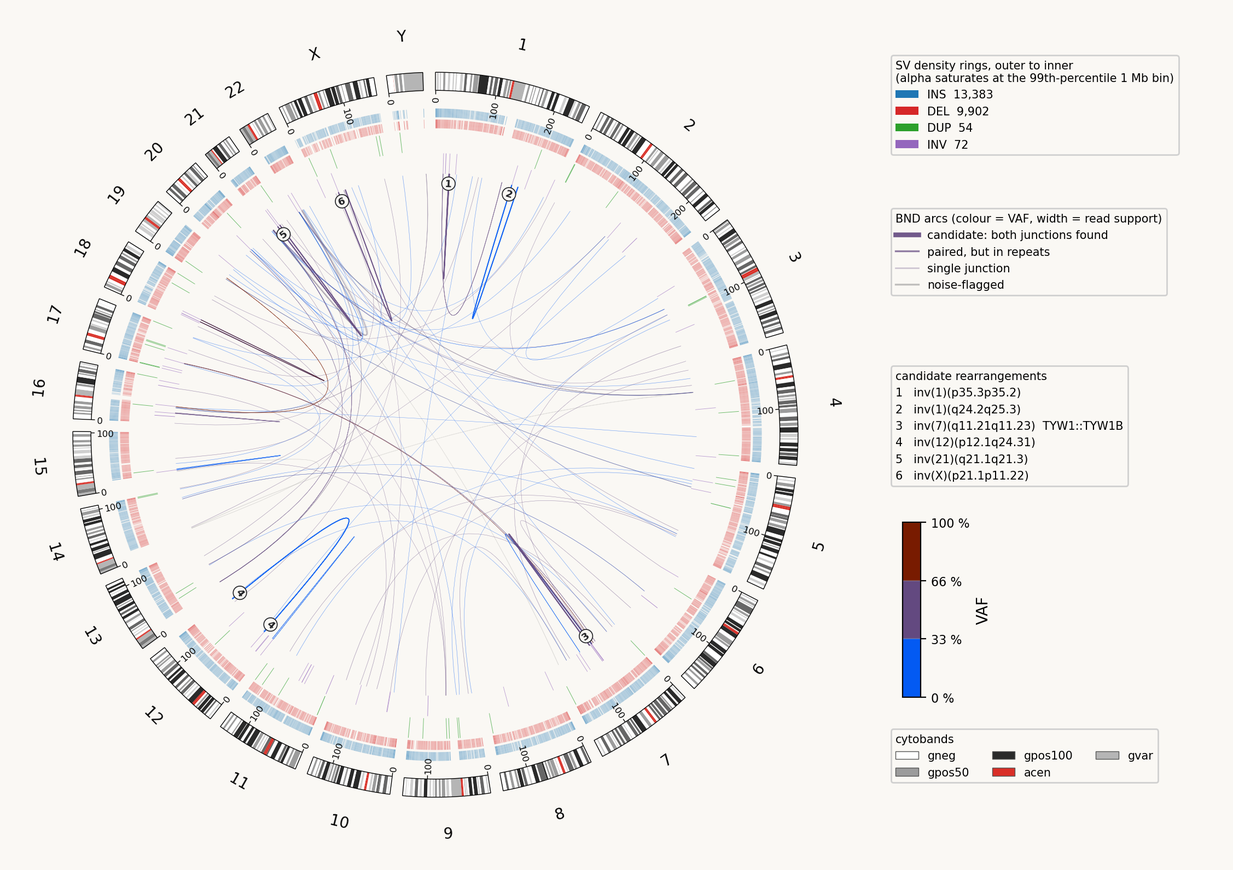
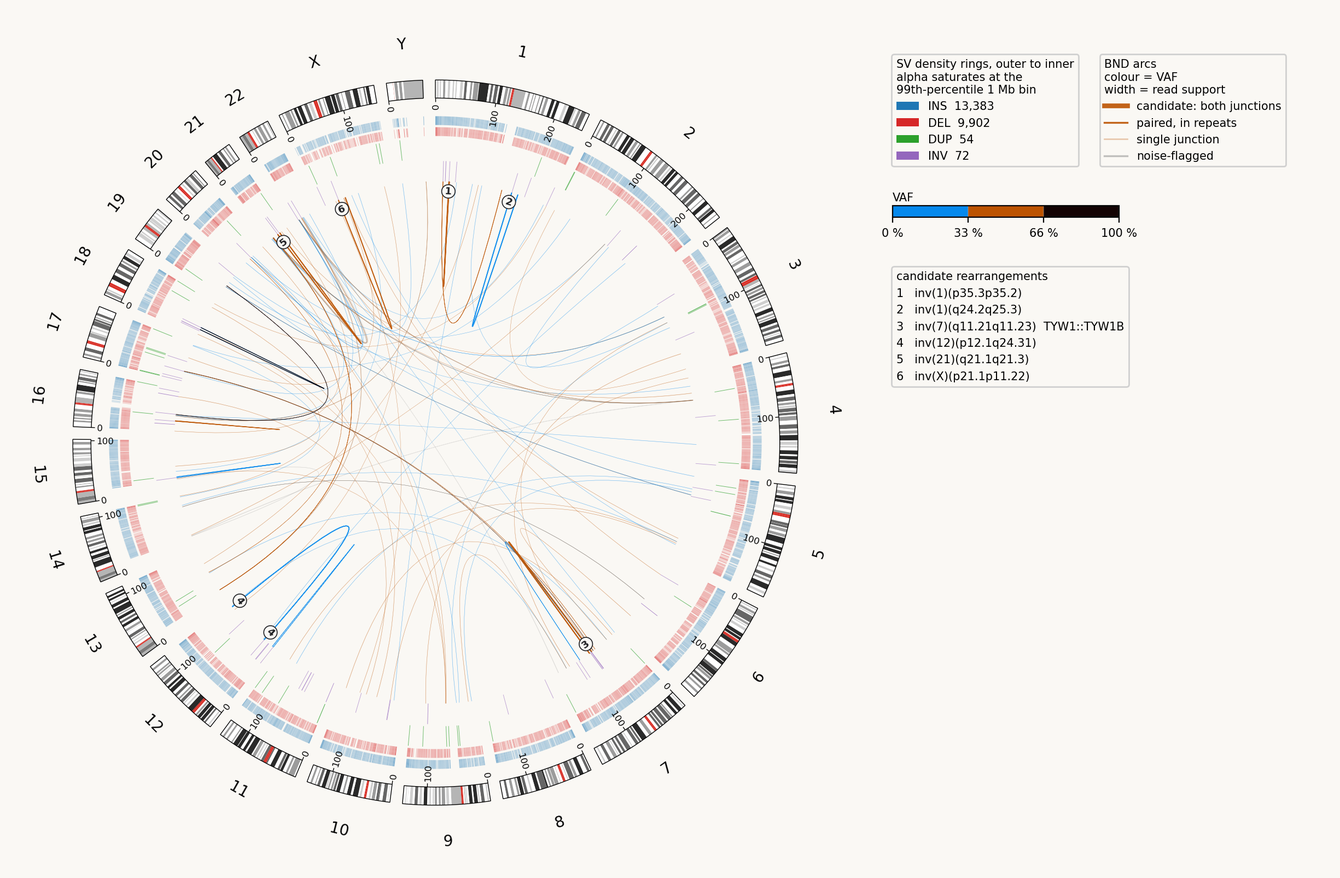
circos: blue / orange / near-black VAF classes, re-laid-out key column
VAF classes are now #0689ED / #BC5301 / #130303 (blue, burnt orange,
near-black). The previous blue / purple / brown met every colour-vision
constraint on paper, but its classes sat at L 44 / 36 / 26, so on a thin
arc the two upper classes read as one dark line. The new ones span
L 56 / 48 / 2, and the worst-case class separation across normal vision,
protanopia, deuteranopia and tritanopia rises from dE 36 to 62, judged
as drawn. Screened against Okabe-Ito, Tol and IBM palettes and a CIE LCh
search; under the old 0.70 alpha for pairs in repeats, the previous
palette was effectively the only one meeting all the constraints.

Pairs in repeats therefore draw at 0.90, like candidates: the lighter
blue keeps 3:1 contrast against the page only at that opacity, and a
mask-demoted real fusion lands in this tier. Candidates are told apart by
width and by being drawn on top. The colour tests check the guarantees
at both tiers' alpha.

Key column: the ring and arc keys sit side by side at the top right, a
small horizontal VAF bar below them, and the candidate list below that
with room for 25 names. Each key is placed from the measured extent of
the one above, so long names cannot overlap (a test checks the layout).
The cytoband key is gone. Rendered with and without --plotvaf and
--filter all; nothing clips. docs/example_sv_circos.png regenerated from
MH001.

diff --git a/molamola/__init__.py b/molamola/__init__.py
@@ -146,29 +146,34 @@ SV_COV_FILTER_TYPES: tuple[str, ...] = ("DEL", "DUP")
 #: low-blast sample as mosaic.
 VAF_CLASS_EDGES: tuple[float, ...] = (0.0, 0.33, 0.66, 1.0)
 
-#: One colour per class, low to high. Chosen under simulated
-#: colour-vision deficiency (Machado et al. 2009) rather than by eye,
-#: and evaluated on the colours **as drawn** -- arcs render at alpha
-#: 0.70 over :data:`PAPER_BG`, which lifts every colour toward the page
-#: and costs roughly a third of the nominal contrast. Judging the raw
-#: hex values instead is how a palette ends up looking fine in a swatch
-#: and washed out on the plot.
+#: One colour per class, low to high: blue, burnt orange, near-black.
+#: Chosen under simulated colour-vision deficiency (Machado et al. 2009)
+#: rather than by eye, and evaluated on the colours **as drawn** -- arcs
+#: that must be read (candidates and pairs in repeats) render at alpha
+#: 0.90 over :data:`PAPER_BG`, which lifts every colour toward the page.
+#: Judging the raw hex values instead is how a palette ends up looking
+#: fine in a swatch and washed out on the plot.
 #:
 #: Constraints, all binding on the blended colour:
 #:
-#: 1. every class clears 3:1 contrast against the page;
-#: 2. classes stay apart under normal, protan, deutan and tritan vision
-#:    (worst case dE 37.2, up from 11.3). The previous palette put het
-#:    and hom at nearly the same lightness, so they differed almost only
-#:    in hue and merged under tritanopia;
-#: 3. no class lands on :data:`NOISE_COLOR` (worst case dE 35.0).
+#: 1. every class clears 3:1 contrast against the page (the blue, at
+#:    3.03:1, is the binding one);
+#: 2. classes stay apart under normal, protan, deutan and tritan vision:
+#:    worst case dE 61.6 (70.6 / 61.6 / 67.6 / 63.3), up from 36.3;
+#: 3. no class lands on :data:`NOISE_COLOR` (worst case dE 45.8).
 #:
-#: Lightness also decreases monotonically with VAF, so the ordering
-#: survives even a total loss of hue discrimination.
+#: Lightness decreases with VAF (L 56 / 48 / 2), so the ordering survives
+#: a total loss of hue discrimination and the fullest events are the
+#: darkest. Replaced 2026-09-26: the previous blue / purple / brown met
+#: the same constraints but sat at L 44 / 36 / 26, so on a thin arc its
+#: two upper classes read as the same dark line. Blue against orange is
+#: the axis Okabe-Ito and other colour-blind-safe palettes are built on.
+#: Meeting 3:1 with a lighter first class is what needs the 0.90 alpha;
+#: at 0.70 the blue drops to 2.4:1.
 VAF_CLASS_COLORS: tuple[str, ...] = (
-    "#035AF3",  # 0 - 33 %
-    "#634980",  # 33 - 66 %
-    "#781B00",  # 66 - 100 %
+    "#0689ED",  # 0 - 33 %
+    "#BC5301",  # 33 - 66 %
+    "#130303",  # 66 - 100 %
 )
 
 #: Class names, in the same order as :data:`VAF_CLASS_COLORS`: the VAF
@@ -293,8 +298,9 @@ CIRCOS_SV_RING_GAP: float = 0.6
 
 #: How much wider than tall the circos figure is drawn. The disk keeps
 #: the leftmost ``1 / CIRCOS_FIG_WIDEN`` of the width - i.e. it stays
-#: square - and the remainder is the legend and colorbar column.
-CIRCOS_FIG_WIDEN: float = 1.30
+#: square - and the remainder is the key column: ring and arc keys side
+#: by side, the VAF bar, and the candidate list.
+CIRCOS_FIG_WIDEN: float = 1.50
 
 #: Blank margin left around the circos disk, as a fraction of figure
 #: height. Not cosmetic: the disk axes only spans r=105, while sector
@@ -3191,7 +3197,7 @@ def _style_vaf_colorbar(cb) -> None:
     """
     cb.set_ticks(list(VAF_CLASS_EDGES))
     cb.set_ticklabels([f"{round(e * 100)} %" for e in VAF_CLASS_EDGES])
-    cb.ax.tick_params(labelsize=8)
+    cb.ax.tick_params(labelsize=7.5)
 
 
 def _bin_sv_counts(
@@ -3319,15 +3325,16 @@ def sv_density_alpha(counts, anchor: float, svtype: str | None = None):
 # ---------------------------------------------------------------------------
 
 #: Arc styling per rearrangement tier, as ``(alpha, width factor)``.
-#: The repeat tier keeps alpha 0.70 on purpose: that is the regime the
-#: VAF colours were validated in under simulated colour-vision
-#: deficiency (``tests/test_vaf_colors.py``), and a real fusion the mask
-#: rule demotes lands in this tier, so it must stay as readable as every
-#: arc used to be. Candidates go darker and wider; single junctions -
-#: ~90 % of a normal genome's arcs - recede into background.
+#: Candidates and pairs in repeats share alpha 0.90 on purpose: that is
+#: the regime the VAF colours are validated in under simulated
+#: colour-vision deficiency (``tests/test_vaf_colors.py``), and a real
+#: fusion the mask rule demotes lands in the repeat tier, so it must stay
+#: as readable as a candidate. Candidates are told apart by width and by
+#: being drawn on top; single junctions - ~90 % of a normal genome's
+#: arcs - recede into background.
 ARC_TIER_STYLE: dict[str, tuple[float, float]] = {
     "candidate": (0.90, 2.6),
-    "repeat": (0.70, 1.0),
+    "repeat": (0.90, 1.0),
     "single": (0.30, 0.8),
 }
 
@@ -3345,7 +3352,7 @@ NON_PASS_ALPHA_FACTOR: float = 0.5
 CIRCOS_ARC_PAD: int = 250_000
 
 #: Candidates named beside the disc; any beyond this are counted.
-CIRCOS_MAX_NAMED_CANDIDATES: int = 10
+CIRCOS_MAX_NAMED_CANDIDATES: int = 25
 
 #: Radii for the numbered badges marking candidate breakpoints, starting
 #: just inside the ring stack where arcs start. A badge that would sit
@@ -3610,6 +3617,13 @@ def _draw_sv_density_rings(
     return n_drawn
 
 
+def _fig_bbox(fig, artist):
+    """An artist's rendered extent in figure-fraction coordinates."""
+    renderer = fig.canvas.get_renderer()
+    return artist.get_window_extent(renderer).transformed(
+        fig.transFigure.inverted())
+
+
 def _add_circos_legends(
     fig,
     n_svs_by_type: dict[str, int],
@@ -3618,25 +3632,25 @@ def _add_circos_legends(
     any_non_pass: bool,
     candidates: list[tuple[int, str]] | None = None,
 ) -> list:
-    """Attach the circos keys: rings, arcs, candidates, cytobands.
+    """Attach the circos keys in the column right of the disc.
 
-    The circos is the only SV figure, so it explains its own ink. Four
-    keys stack in the right-hand column, with the VAF colorbar between
-    the candidate list and the cytoband key:
+    Laid out top to bottom, each placed against the measured extent of
+    the one above so nothing overlaps whatever the text widths:
 
-    - **rings**: which ring is which type, with its per-type event
-      count. No number for the alpha scale - the ramp saturates at the
-      99th-percentile bin, which the title says, and printing the
-      busiest bin beside that invited readers to take the wrong number
-      as the top of the scale.
-    - **arcs**: the three rearrangement tiers, plus non-PASS when any
-      are drawn, and noise-flagged. Samples are solid because the arcs
-      are: pyCirclize draws filled ribbons, which cannot show a dash.
-    - **candidates**: numbered to match the badges on the disc, named
-      by :func:`rearrangement_label`. Always present - "none" is an
+    - **rings** and **arcs** side by side. Rings: which ring is which
+      type, with per-type event counts; no number for the alpha scale -
+      the ramp saturates at the 99th-percentile bin, which the title
+      says, and printing the busiest bin beside that invited readers to
+      take the wrong number as the top of the scale. Arcs: the three
+      tiers, non-PASS when any are drawn, and noise-flagged; samples are
+      solid because pyCirclize draws filled ribbons, which cannot dash.
+    - a small horizontal **VAF** bar spanning both.
+    - **candidates**, numbered to match the badges on the disc, with the
+      rest of the column to grow into. Always present - "none" is an
       answer a cytogeneticist wants stated, not implied by absence.
-    - **cytobands**: the greyscale ramp with the circos's red
-      centromere.
+
+    There is no cytoband key: the greyscale is the ISCN convention the
+    readers already know, and the column is better spent on candidates.
 
     Returns the legend artists, which ``bbox_inches="tight"`` needs
     listed explicitly or it can crop entries outside the axes.
@@ -3647,6 +3661,7 @@ def _add_circos_legends(
     style = dict(frameon=True, framealpha=0.9, edgecolor="#CCCCCC",
                  facecolor=PAPER_BG, fontsize=7.5, title_fontsize=7.5,
                  alignment="left", loc="upper left")
+    x0, top, gap = 1.0 / CIRCOS_FIG_WIDEN + 0.01, 0.95, 0.012
 
     ring_handles = [
         mpatches.Patch(
@@ -3656,9 +3671,9 @@ def _add_circos_legends(
         for t in CIRCOS_SV_RING_ORDER
     ]
     rings = fig.legend(
-        handles=ring_handles, bbox_to_anchor=(0.78, 0.94),
-        title=f"SV density rings, outer to inner\n(alpha saturates at the "
-              f"99th-percentile {bin_label} bin)",
+        handles=ring_handles, bbox_to_anchor=(x0, top),
+        title=f"SV density rings, outer to inner\nalpha saturates at the\n"
+              f"99th-percentile {bin_label} bin",
         **style,
     )
 
@@ -3667,8 +3682,8 @@ def _add_circos_legends(
         plt.Line2D([0], [0], color=sample, alpha=ARC_TIER_STYLE[tier][0],
                    linewidth=1.2 * ARC_TIER_STYLE[tier][1], label=label)
         for tier, label in (
-            ("candidate", "candidate: both junctions found"),
-            ("repeat", "paired, but in repeats"),
+            ("candidate", "candidate: both junctions"),
+            ("repeat", "paired, in repeats"),
             ("single", "single junction"),
         )
     ]
@@ -3680,10 +3695,21 @@ def _add_circos_legends(
     arc_handles.append(plt.Line2D(
         [0], [0], color=NOISE_COLOR, linewidth=1.2, alpha=0.5,
         label="noise-flagged"))
+    rb = _fig_bbox(fig, rings)
     arcs = fig.legend(
-        handles=arc_handles, bbox_to_anchor=(0.78, 0.765),
-        title="BND arcs (colour = VAF, width = read support)", **style,
+        handles=arc_handles, bbox_to_anchor=(rb.x1 + gap, top),
+        title="BND arcs\ncolour = VAF\nwidth = read support", **style,
     )
+
+    ab = _fig_bbox(fig, arcs)
+    bar_w = min(0.6 * (ab.x1 - x0), 0.20)
+    bar_h = 0.013
+    bar_y = min(rb.y0, ab.y0) - 0.045 - bar_h
+    cax = fig.add_axes([x0 + 0.005, bar_y, bar_w - 0.01, bar_h])
+    sm = plt.cm.ScalarMappable(cmap=VAF_CMAP, norm=VAF_NORM)
+    cb = fig.colorbar(sm, cax=cax, orientation="horizontal")
+    _style_vaf_colorbar(cb)
+    cax.set_title("VAF", fontsize=7.5, loc="left", pad=3)
 
     named = list(candidates or [])
     shown = named[:CIRCOS_MAX_NAMED_CANDIDATES]
@@ -3697,20 +3723,10 @@ def _add_circos_legends(
     cand = fig.legend(
         handles=[plt.Line2D([], [], linestyle="none") for _ in cand_labels],
         labels=cand_labels, handlelength=0, handletextpad=0,
-        bbox_to_anchor=(0.78, 0.585),
+        bbox_to_anchor=(x0, bar_y - 0.05),
         title="candidate rearrangements", **style,
     )
-
-    cyto_handles = [
-        mpatches.Patch(facecolor=CIRCOS_CYTOBAND_COLORS[st],
-                       edgecolor="#555555", linewidth=0.5, label=st)
-        for st in ("gneg", "gpos50", "gpos100", "acen", "gvar")
-    ]
-    cyto = fig.legend(
-        handles=cyto_handles, bbox_to_anchor=(0.78, 0.17),
-        title="cytobands", ncols=3, **style,
-    )
-    return [rings, arcs, cand, cyto]
+    return [rings, arcs, cand]
 
 
 def plot_circos(
@@ -3902,11 +3918,6 @@ def plot_circos(
         m / CIRCOS_FIG_WIDEN, m,
         (1.0 - 2 * m) / CIRCOS_FIG_WIDEN, 1.0 - 2 * m,
     ])
-
-    cax = fig.add_axes([0.795, 0.20, 0.016, 0.20])
-    sm = plt.cm.ScalarMappable(cmap=VAF_CMAP, norm=VAF_NORM)
-    cb = fig.colorbar(sm, cax=cax, label="VAF")
-    _style_vaf_colorbar(cb)
 
     legends = _add_circos_legends(
         fig, n_svs_by_type, bin_size,

diff --git a/tests/test_circos_rings.py b/tests/test_circos_rings.py
@@ -257,32 +257,57 @@ def _legend_texts(legends):
     return [[t.get_text() for t in lg.get_texts()] for lg in legends]
 
 
-def test_circos_keys_its_own_arcs_and_cytobands():
-    """With the linear map gone, the circos has to explain the noise-arc
-    style and the cytoband greys itself."""
+def test_circos_keys_its_own_arcs():
+    """With the linear map gone, the circos explains its own arc styles.
+    It carries no cytoband key: the greyscale is the ISCN convention its
+    readers know, and the column is spent on the candidate list."""
     import matplotlib.pyplot as plt
     fig = plt.figure()
     try:
-        rings, arcs, cand, cyto = mm._add_circos_legends(
+        legends = mm._add_circos_legends(
             fig, {"INS": 3, "DEL": 2, "DUP": 1, "INV": 0}, 1_000_000,
             any_non_pass=False,
         )
-        texts = _legend_texts([rings, arcs, cand, cyto])
+        texts = _legend_texts(legends)
     finally:
         plt.close(fig)
+    assert len(legends) == 3
     assert texts[0] == ["INS  3", "DEL  2", "DUP  1", "INV  0"]
-    assert texts[1] == ["candidate: both junctions found",
-                        "paired, but in repeats", "single junction",
-                        "noise-flagged"]
+    assert texts[1] == ["candidate: both junctions", "paired, in repeats",
+                        "single junction", "noise-flagged"]
     assert texts[2] == ["none"]
-    assert "acen" in texts[3] and "gneg" in texts[3]
+    assert not any("acen" in t for tt in texts for t in tt)
+
+
+def test_keys_are_laid_out_without_overlap():
+    """Ring and arc keys side by side, the VAF bar below both, the
+    candidate list below the bar - placed from measured extents, so long
+    names cannot push one key onto another."""
+    import matplotlib.pyplot as plt
+    fig = plt.figure(figsize=(12, 8))
+    try:
+        rings, arcs, cand = mm._add_circos_legends(
+            fig, {"INS": 13_383, "DEL": 9_902, "DUP": 54, "INV": 73},
+            1_000_000, any_non_pass=True,
+            candidates=[(n, f"t(8;21)(q21.3;q22.12)  RUNX1::RUNX1T1 #{n}")
+                        for n in range(1, 21)],
+        )
+        rb, ab, cb = (mm._fig_bbox(fig, x) for x in (rings, arcs, cand))
+        bar = fig.axes[-1].get_position()
+    finally:
+        plt.close(fig)
+    assert ab.x0 > rb.x1                      # side by side
+    assert abs(ab.y1 - rb.y1) < 1e-6          # top-aligned
+    assert bar.y1 < min(rb.y0, ab.y0)         # bar below both
+    assert bar.width < (ab.x1 - rb.x0)        # smaller than the two keys
+    assert cb.y1 < bar.y0                     # candidates below the bar
 
 
 def test_non_pass_key_appears_only_when_non_pass_arcs_are_drawn():
     import matplotlib.pyplot as plt
     fig = plt.figure()
     try:
-        _, arcs, _, _ = mm._add_circos_legends(
+        _, arcs, _ = mm._add_circos_legends(
             fig, {}, 1_000_000, any_non_pass=True,
         )
         assert "non-PASS (fainter)" in [t.get_text() for t in arcs.get_texts()]

diff --git a/tests/test_circos_tiers.py b/tests/test_circos_tiers.py
@@ -89,14 +89,15 @@ def _arc(**kw):
 def test_tiers_rank_by_emphasis():
     alpha = {t: mm._arc_style(_arc(tier=t))[1] for t in mm.ARC_TIER_STYLE}
     width = {t: mm._arc_style(_arc(tier=t))[2] for t in mm.ARC_TIER_STYLE}
-    assert alpha["candidate"] > alpha["repeat"] > alpha["single"]
+    assert alpha["candidate"] >= alpha["repeat"] > alpha["single"]
     assert width["candidate"] > width["repeat"] > width["single"]
 
 
-def test_repeat_tier_keeps_the_alpha_the_palette_was_validated_at():
-    """A real fusion demoted by the mask rule is drawn in this tier; it
-    must stay as readable as every arc was before tiers existed."""
-    assert mm.ARC_TIER_STYLE["repeat"][0] == 0.70
+def test_repeat_tier_is_as_readable_as_a_candidate():
+    """A real fusion demoted by the mask rule is drawn in this tier, and
+    the VAF palette's 3:1 contrast holds only at the candidates' alpha -
+    so the two share it and differ by width."""
+    assert mm.ARC_TIER_STYLE["repeat"][0] == mm.ARC_TIER_STYLE["candidate"][0]
 
 
 def test_noise_flag_greys_an_arc_whatever_its_tier():

diff --git a/CHANGELOG.md b/CHANGELOG.md
@@ -10,7 +10,7 @@ The format follows [Keep a Changelog](https://keepachangelog.com/en/1.1.0/) and 
 - **Derivative-chromosome panels.** Below the circos, one panel per candidate rearrangement, numbered as on the circos (up to 12): the normal chromosomes beside the derivatives the junctions build (`8`, `der(8)`, `21`, `der(21)`; `16`, `inv(16)`), G-banded, with a paint bar per source chromosome. Breakpoints are labelled with band and gene, junctions with the fusion they make, written 5'::3' from the kept sides and the gene strands (`RUNX1::RUNX1T1`, `CBFB::MYH11`; IG / TR loci first, `IGH::CRLF2`). Gene names are annotation only. `--png` writes each panel as `<sample>.report.rearrangement_<n>.png`; the circos candidate key carries the fusion name too.
 - **Bundled gene tables** (`genes.hg38.bed.gz`, `genes.t2t.bed.gz`, ~275 kB each): protein-coding genes plus the IG / TR loci, from NCBI RefSeq annotation release RS_2025_08, which annotates GRCh38 and T2T-CHM13v2.0 natively in one run — the same symbols on both builds, and T2T coordinates that are not a liftover (they match NASVAR's T2T configuration). `scripts/derive_gene_tables.py` regenerates them.
 - **Masked pairs in genes are kept as candidates.** A pair demoted only because every breakpoint lies in the exclusion mask is promoted back when every breakpoint also falls in a gene — the case where the mask rule would otherwise hide a real fusion. No pair in ten normal call sets met it.
-- **The circos draws rearrangements by tier.** Each classified event is one arc instead of one per BND record: candidates darkest and widest, drawn on top, and numbered — a badge at each breakpoint and a named list beside the disc (`1  t(8;21)(q21.3;q22.12)`, or "none"); pairs in repeats at the opacity every arc used to have, which is the one the VAF colours are validated at under colour-vision deficiency; single junctions (~90 % of a normal genome's arcs) as faint background. Large inversions — `INV` records of 1 Mb or more, previously a single tick in the INV ring — are drawn as arcs within their chromosome, and an insertion's ribbon spans its donor segment. The report's metadata block states the rearrangement summary.
+- **The circos draws rearrangements by tier.** Each classified event is one arc instead of one per BND record: candidates widest, drawn on top, and numbered — a badge at each breakpoint and a named list beside the disc (`1  t(8;21)(q21.3;q22.12)`, or "none"); pairs in repeats thinner but just as opaque, since the VAF colours are validated at that opacity under colour-vision deficiency; single junctions (~90 % of a normal genome's arcs) as faint background. Large inversions — `INV` records of 1 Mb or more, previously a single tick in the INV ring — are drawn as arcs within their chromosome, and an insertion's ribbon spans its donor segment. The report's metadata block states the rearrangement summary.
 - **`--only-sv-chroms`** draws only the chromosomes that carry an arc, for targeted and adaptive-sampling runs.
 - **Rearrangement classifier (SV mode).** BND junctions, plus `INV` records of 1 Mb or more, are grouped into reciprocal translocations, inversions, insertions and single junctions, and each paired event gets a display tier: *candidate* or *paired in repeats* (noise-flagged, pericentromeric, every breakpoint in the exclusion mask, or a mobile-element-shaped pair). The run prints a one-line summary; nothing is filtered. On ten normal call sets this takes ~100–150 junctions per genome down to 0–1 translocation candidates and 0–6 inversion candidates; a synthetic t(8;21) spiked into a real VCF comes out as `t(8;21)(q21.3;q22.12)`. The rules and their measured trade-offs are in `docs/FILTERS.md`.
 
@@ -19,7 +19,8 @@ The format follows [Keep a Changelog](https://keepachangelog.com/en/1.1.0/) and 
 - **A single BND is no longer called a translocation.** `--focus` used to print `ISCN=t(7;17)(q11.23;q12)` for every matched record, but one junction does not show the event is balanced, and ISCN's `t` asserts it. `--focus` now prints `event=` with the name of the event the record belongs to: `t(...)` only when both junctions were found, otherwise `7q11.23::17q12 (single junction)`. `iscn_label()` names a lone BND the same way.
 
 - **The circos keys describe arcs as drawn.** They previously showed noise-flagged and non-PASS arcs as dashed, but pyCirclize draws arcs as filled ribbons, which cannot show a dash: noise arcs were always faint grey, and non-PASS arcs are now half their tier's opacity. The ring key's per-type counts now include only events on the drawn chromosomes.
-- **The circos now keys its own arcs and cytobands.** With the linear map gone (see Removed), the circos is the only SV figure, so it carries the keys the map used to hold: an arc key (the rearrangement tiers, non-PASS when any are drawn, and noise-flagged) and a cytoband key with the circos's red centromere, alongside the existing density-ring key and VAF colorbar.
+- **The circos now keys its own arcs, and its key column is re-laid out.** With the linear map gone (see Removed), the circos is the only SV figure, so it carries an arc key (the rearrangement tiers, non-PASS when any are drawn, and noise-flagged). The density-ring and arc keys sit side by side at the top right, a small horizontal VAF bar below them, and the candidate list below that with room for 25 names. Each key is placed against the measured size of the one above, so long names cannot overlap. There is no cytoband key: the greyscale is the ISCN convention the readers know.
+- **New VAF colours: blue / burnt orange / near-black** (`#0689ED` / `#BC5301` / `#130303`), replacing blue / purple / brown. The old palette met every colour-blind constraint on paper, but its classes sat at nearly the same lightness (L 44 / 36 / 26), so on a thin arc the two upper classes read as one dark line. The new classes span L 56 / 48 / 2, and the worst-case separation between any two classes under normal vision, protanopia, deuteranopia and tritanopia rises from ΔE 36 to 62, judged as drawn on the page. Blue against orange is the axis colour-blind-safe palettes such as Okabe-Ito are built on. Paired-in-repeat arcs are drawn at the same 0.90 opacity as candidates (previously 0.70), because the lighter blue only keeps its 3:1 contrast against the page at that opacity; candidates are told apart by width.
 - **VAF classes are named by range, not zygosity.** The colorbar used to write mosaic / het / hom inside its three bands. Those are germline readings: in a tumour sample a translocation's VAF tracks blast fraction and clonality, so a clonal event in a sample with 25 % blasts was labelled "mosaic". The classes are now 0-33 %, 33-66 % and 66-100 %, which the colorbar's edge ticks already state, so nothing is written inside the bands. Class edges and colours are unchanged.
 - **The SV density legends no longer print a "peak N" per type.** The number was the busiest single 1 Mb bin, and it was the top of the colour scale until v0.6.0 moved the alpha ramp to a 99th-percentile anchor. After that it sat directly beside a legend title saying the scale saturates somewhere else — for INS on a typical genome, `peak 67` next to a scale that in fact saturates at 35, with ~1 % of bins clipping. A number that contradicts the title it sits under is worse than no number, and the peak was not otherwise helping a reader decode the ink. Entries now carry the per-type event count only, on both the circos rings and the linear map's strips. `type_peak` is no longer computed or threaded through the plotting chain.
 - **`docs/EXAMPLES.md`: the "heavier smoothing" karyotype example now actually smooths more.** It passed `--smooth-window-mb 1.0`, which became *lighter* than the default when that moved to 10 Mb, and `--ymax 4`, a linear-CN value that means CN 32 on the log2 axis introduced in v0.5.0. It now passes `--smooth-window-mb 20` and leaves the axis at its default.

diff --git a/docs/OUTPUTS.md b/docs/OUTPUTS.md
@@ -27,14 +27,14 @@ The SV report's one figure. From the rim inward:
 - **Four SV density rings**, outermost first: INS = blue, DEL = red, DUP = green, INV = purple. Each is 1 Mb-binned (`--bin-size`); alpha encodes count, sqrt-scaled and saturating at the 99th-percentile occupied bin rather than at the peak. Anchoring on the peak looked principled and was not — SV density is heavily skewed, so on a normal genome the peak bin is a far outlier from the typical one (INS: median 3 events per bin, peak 67), which pushed almost every bin into a 0.15-wide alpha band and made the track a near-uniform wash. The ~1 % of bins above the anchor clip to full alpha; single-event bins stay visible via a 0.20 alpha floor. Only occupied bins are drawn — an empty ring is bare paper, not a tinted band. Noise-flagged and non-PASS events are left out of the rings.
   - The rings are deliberately **not** equal width: INS and DEL are drawn thin and capped below full alpha, DUP and INV get most of the radius. Per-1 Mb-bin INS and DEL density is ~85 % identical between two unrelated people (measured on the GIAB trio, holding everything but relatedness constant), so those tracks describe the species more than the sample and are drawn as background texture.
   - Type is encoded by *radius* first and colour second: the four-colour palette is not separable under protanopia or deuteranopia on its own, and giving each type its own ring keeps colour redundant rather than load-bearing.
-- **Rearrangement arcs** across the disc. BND junctions are first grouped into events (see [Rearrangement tiers](FILTERS.md#rearrangement-tiers-sv-mode)), and each event is **one** arc — a reciprocal translocation's two junctions are not drawn twice. Colour is VAF class, three discrete bands: 0-33 %, 33-66 % and 66-100 %. They are named by range only: germline names (mosaic / het / hom) would misread tumour samples, where VAF follows clone fraction. The class colours are chosen under simulated colour-vision deficiency and stay distinct under protanopia, deuteranopia and tritanopia, with lightness decreasing as VAF rises, so the ordering survives even total loss of hue discrimination. Width scales with read support. Emphasis follows the tier:
-  - **candidate** (both junctions found, outside repeats) — darkest and widest, drawn on top, and numbered: a badge at each breakpoint matches a numbered name beside the disc, e.g. `1  t(8;21)(q21.3;q22.12)`. Badges that would collide step inward; the two ends of a short event share one badge.
-  - **paired, but in repeats** — drawn at the opacity every arc had before tiers existed, and the one the VAF colours are validated at. A real fusion demoted by the mask rule lands here, so it stays fully readable.
+- **Rearrangement arcs** across the disc. BND junctions are first grouped into events (see [Rearrangement tiers](FILTERS.md#rearrangement-tiers-sv-mode)), and each event is **one** arc — a reciprocal translocation's two junctions are not drawn twice. Colour is VAF class, three discrete bands: 0-33 %, 33-66 % and 66-100 %. They are named by range only: germline names (mosaic / het / hom) would misread tumour samples, where VAF follows clone fraction. The classes are blue, burnt orange and near-black. The colours are chosen under simulated colour-vision deficiency, judged as drawn on the page, and stay well apart under protanopia, deuteranopia and tritanopia. Lightness decreases as VAF rises, so the ordering survives even total loss of hue discrimination, and the fullest events are the darkest. Width scales with read support. Emphasis follows the tier:
+  - **candidate** (both junctions found, outside repeats) — widest, drawn on top, and numbered: a badge at each breakpoint matches a numbered name beside the disc, e.g. `1  t(8;21)(q21.3;q22.12)`. Badges that would collide step inward; the two ends of a short event share one badge.
+  - **paired, but in repeats** — thinner than a candidate but just as opaque: the VAF colours hold their contrast and colour-blind separation only at that opacity, and a real fusion demoted by the mask rule lands here, so it has to stay fully readable.
   - **single junction** — faint background. On a normal genome this is ~90 % of all arcs.
   - **noise-flagged** — grey and fainter still, whatever the tier. **non-PASS** (`--filter all`) — half the opacity of its tier. Arcs are filled ribbons, so there are no dashed styles.
   - Large inversions, from `INV` records or a pair of intrachromosomal BNDs, are drawn as arcs within their chromosome rather than as a tick in the INV ring. An insertion's ribbon spans the whole donor segment. With `--plotvaf`, each drawn arc also carries its VAF as a percentage on the rim.
 
-Keys sit to the right of the disc: the density rings with their per-type event counts (events on the drawn chromosomes only), the arc tiers, the numbered candidate list ("none" when there are none — the absence is stated, not implied), the VAF colorbar, and the cytoband greys. The ring key deliberately quotes no number for the alpha scale — the ramp saturates at the 99th-percentile bin, which its title says, and printing the busiest bin beside that only invited the reader to treat the wrong number as the top of the scale.
+Keys sit to the right of the disc. At the top, side by side: the density rings with their per-type event counts (events on the drawn chromosomes only), and the arc tiers. Below them, a small horizontal VAF bar; below that, the numbered candidate list, which has the rest of the column and names up to 25 candidates ("none" when there are none — the absence is stated, not implied). There is no cytoband key: the greyscale is the ISCN convention its readers already know. The ring key deliberately quotes no number for the alpha scale — the ramp saturates at the 99th-percentile bin, which its title says, and printing the busiest bin beside that only invited the reader to treat the wrong number as the top of the scale.
 
 `--only-sv-chroms` draws only the chromosomes that carry an arc — for targeted or adaptive-sampling runs where most of a genome-wide disc would be empty. The run metadata block also states the rearrangement summary line.
 
